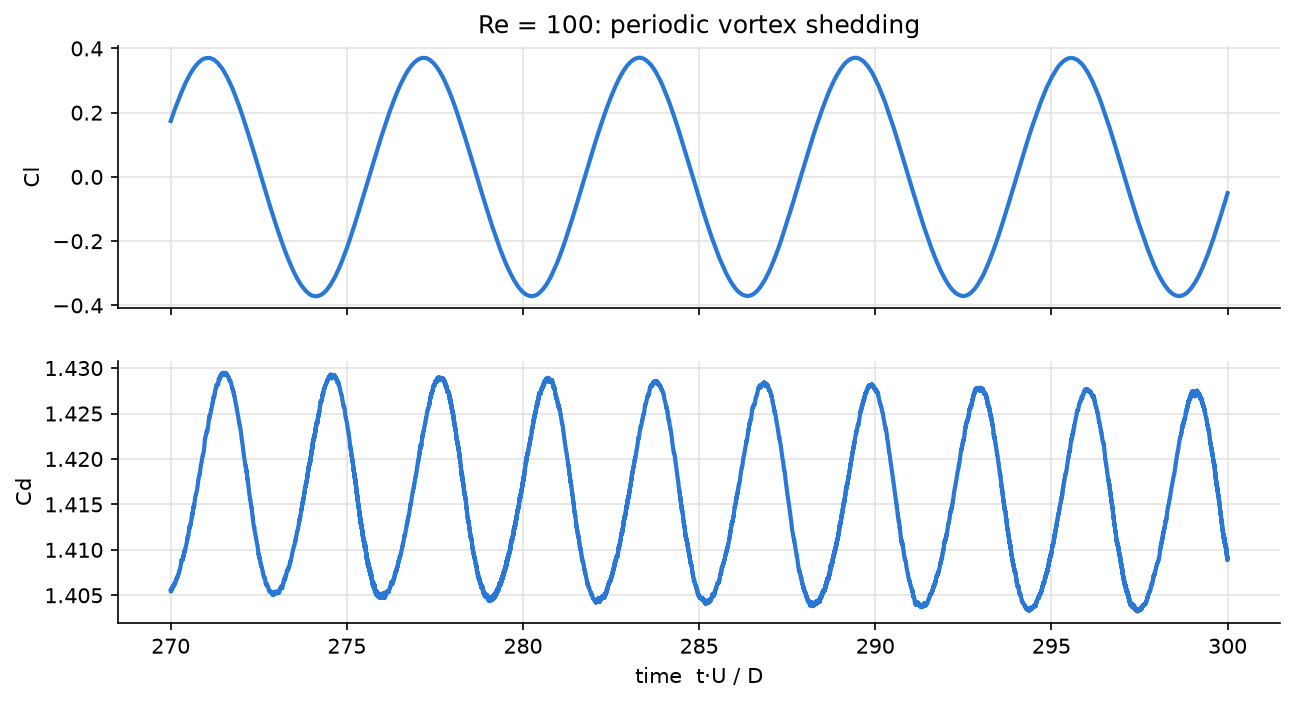
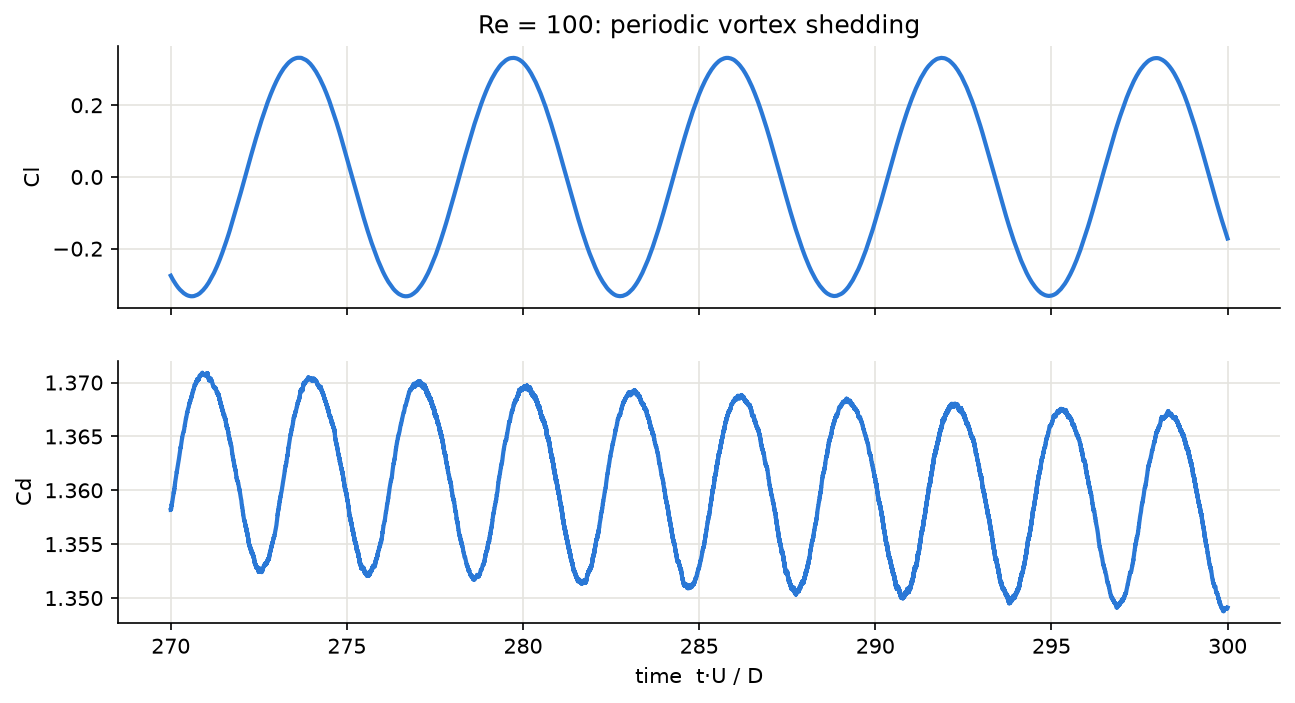
Validation: Re = 100 at 40 cells per diameter, all Re = 100 values within published ranges

diff --git a/validation/cylinder.py b/validation/cylinder.py
@@ -7,7 +7,7 @@ Flow past a circular cylinder is the standard benchmark for a 2D incompressible 
 Every case runs at two resolutions (D = 20 and 40 cells) in the same physical domain
 (50 D x 20 D, free-slip side walls, 5% blockage), so the report also shows grid convergence.
 
-    python validation/cylinder.py                  # full study, ~1 h on a 12-thread laptop
+    python validation/cylinder.py                  # full study, ~1.5 h on a 12-thread laptop
     python validation/cylinder.py --d 20           # D = 20 only, ~12 min
     python validation/cylinder.py --d 40 --re 100  # any subset
     python validation/cylinder.py --report         # re-plot from saved runs without re-running
@@ -334,7 +334,7 @@ def write_report(results, figures):
         "",
         "Reference ranges span the published values below. They are for an unbounded cylinder,",
         "so the 5% blockage of our channel is expected to push Cd and the lift amplitude up.",
-        "The finer grid moves the steady-wake values towards the references.",
+        "Doubling the resolution moves every value towards the references.",
         "",
     ]
     lines += [f"- {s}" for s in SOURCES]

diff --git a/README.md b/README.md
@@ -71,13 +71,13 @@ circular cylinder, compared with published values ([full report](docs/validation
 | Re = 20: wake length Lr/D | 0.95 | 0.91–0.94 |
 | Re = 40: drag coefficient Cd | 1.60 | 1.48–1.62 |
 | Re = 40: wake length Lr/D | 2.33 | 2.13–2.35 |
-| Re = 100: shedding frequency (Strouhal) | 0.164 | 0.160–0.175 |
-| Re = 100: mean drag Cd | 1.42 | 1.33–1.38 |
-| Re = 100: lift amplitude | 0.38 | 0.25–0.34 |
+| Re = 100: shedding frequency (Strouhal) | 0.165 | 0.160–0.175 |
+| Re = 100: mean drag Cd | 1.37 | 1.33–1.38 |
+| Re = 100: lift amplitude | 0.34 | 0.25–0.34 |
 
-The steady wakes and the shedding frequency match. Drag and lift amplitude at Re = 100 are
-3% and 11% high, as expected from the 5% blockage of the simulated channel (the references
-are for an unbounded cylinder).
+Values are at 40 cells per diameter. Everything falls inside the published range except
+the Re = 20 wake length, 1.4% above it; halving the cell size moves every value towards
+the references.
 
 ![Von Kármán vortex street behind a cylinder at Re = 100](docs/validation/vortex_street.gif)
 
@@ -102,7 +102,7 @@ Open the dashboard while the run is going: it updates every two seconds. The rep
 | `python orchestrator_py/report.py [run]` | Rebuild a run's report |
 | `python orchestrator_py/export_demo.py [run]` | Export the dashboard + a run to `docs/demo/` (GitHub Pages) |
 | `python -m unittest discover -s tests` | Ledger rules, worker determinism, fraud detection (≈ 15 s) |
-| `python validation/cylinder.py` | Cylinder benchmark (≈ 45 min; needs the bigger-grid builds, see the script) |
+| `python validation/cylinder.py` | Cylinder benchmark (≈ 1.5 h; needs the bigger-grid builds, see the script) |
 
 **CMake** (any platform; also used by the VS Code CMake Tools extension):
 

diff --git a/docs/validation/cylinder.md b/docs/validation/cylinder.md
@@ -24,12 +24,13 @@ wind tunnels (acoustic resonance of the test section).
 | 20 | Lr / D | 0.91–0.94 | 0.97 | 0.95 | +1.4% outside |
 | 40 | Cd (mean) | 1.48–1.62 | 1.62 | 1.60 | within range |
 | 40 | Lr / D | 2.13–2.35 | 2.39 | 2.33 | within range |
-| 100 | Strouhal St | 0.160–0.175 | 0.164 | – | within range |
-| 100 | Cd (mean) | 1.33–1.38 | 1.42 | – | +2.9% outside |
-| 100 | Cl amplitude | 0.25–0.34 | 0.38 | – | +10.6% outside |
+| 100 | Strouhal St | 0.160–0.175 | 0.164 | 0.165 | within range |
+| 100 | Cd (mean) | 1.33–1.38 | 1.42 | 1.37 | within range |
+| 100 | Cl amplitude | 0.25–0.34 | 0.38 | 0.34 | within range |
 
-Reference ranges span the published values below; they are for an unbounded
-cylinder, so the 5% blockage of our channel is expected to push Cd and St slightly up.
+Reference ranges span the published values below. They are for an unbounded cylinder,
+so the 5% blockage of our channel is expected to push Cd and the lift amplitude up.
+Doubling the resolution moves every value towards the references.
 
 - Tritton 1959 (experiment): Cd
 - Coutanceau & Bouard 1977 (experiment): Lr
@@ -64,6 +65,7 @@ cylinder, so the 5% blockage of our channel is expected to push Cd and St slight
 | D = 20, Re = 100 | 0.05 | 0.530 | 120000 | 7.9e-03 | 23 | 1.009 |
 | D = 40, Re = 20 | 0.1 | 1.100 | 40000 | 2.3e-04 | – | – |
 | D = 40, Re = 40 | 0.1 | 0.800 | 60000 | 1.9e-04 | – | – |
+| D = 40, Re = 100 | 0.05 | 0.560 | 240000 | 1.5e-02 | 24 | 1.013 |
 
 Cd spread: max − min of four block averages over the averaging window (steady cases
 should be ≈ 0). Saturation: lift amplitude in the first vs second half of the window

diff --git a/architecture.md b/architecture.md
@@ -269,13 +269,13 @@ with published values for an unbounded cylinder.
 | Re = 20: wake length Lr/D | 0.95 | 0.91–0.94 |
 | Re = 40: drag coefficient Cd | 1.60 | 1.48–1.62 |
 | Re = 40: wake length Lr/D | 2.33 | 2.13–2.35 |
-| Re = 100: shedding frequency (Strouhal) | 0.164 | 0.160–0.175 |
-| Re = 100: mean drag Cd | 1.42 | 1.33–1.38 |
-| Re = 100: lift amplitude | 0.38 | 0.25–0.34 |
+| Re = 100: shedding frequency (Strouhal) | 0.165 | 0.160–0.175 |
+| Re = 100: mean drag Cd | 1.37 | 1.33–1.38 |
+| Re = 100: lift amplitude | 0.34 | 0.25–0.34 |
 
-Values are from the finest grid run for each case (D = 40 cells for Re = 20 and 40, D = 20 for
-Re = 100). Doubling the resolution moves the steady-wake values towards the references; the
-excess at Re = 100 matches the 5% blockage of the channel.
+Values are from the finer grid (D = 40 cells). At D = 20, drag and lift amplitude at Re = 100
+were 3% and 11% above the range; doubling the resolution brings them in. The only value
+still outside is the Re = 20 wake length, 1.4% above the range.
 
 Running Re = 100 at Mach 0.17 first produced a lift amplitude above 3: the shedding frequency
 sat at 1.14× the channel's first transverse acoustic mode (c_s / 2H, free-slip walls reflect
